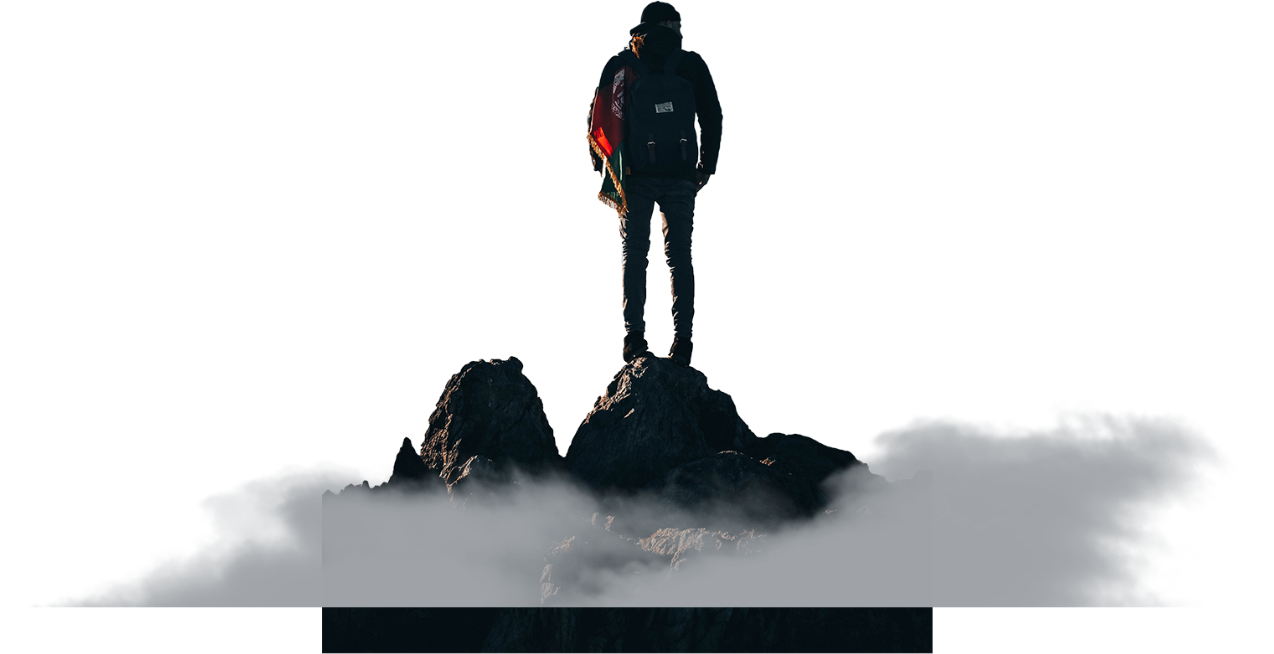
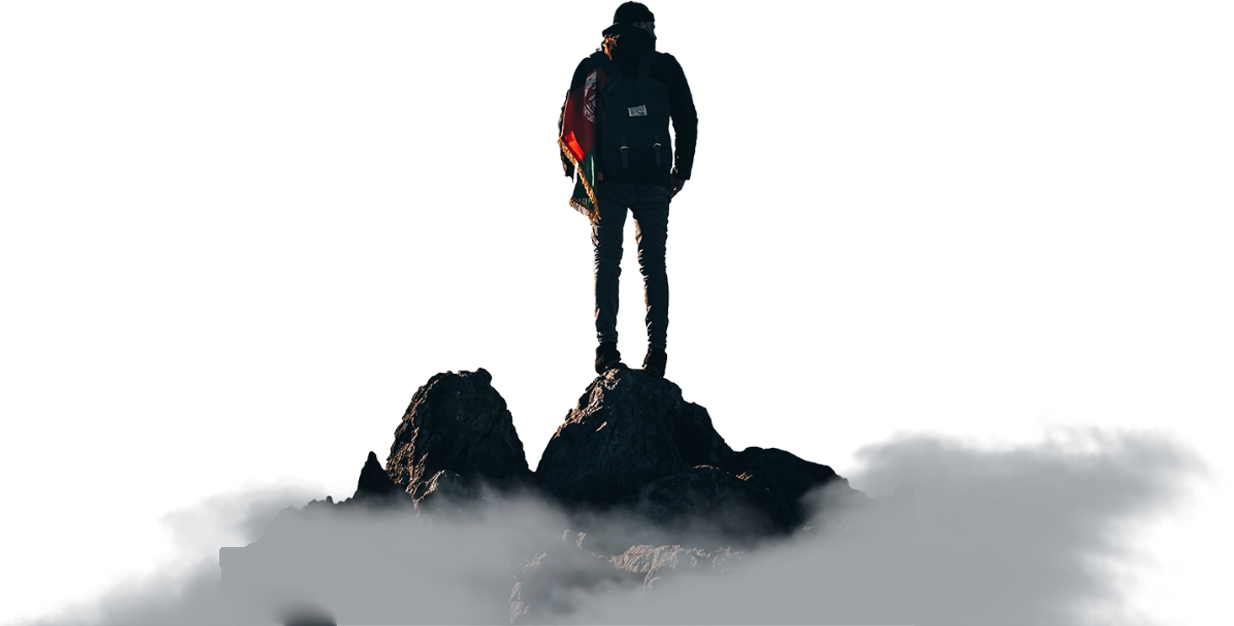
some parallax adds

Changed region(s): [[0.0, 0.0, 0.9854, 1.0]]

diff --git a/src/components/Parallax/Parallax.css b/src/components/Parallax/Parallax.css
@@ -1,48 +1,79 @@
-.Parallax{
+.Parallax {
     position: relative;
     width: 100%;
-    height: 95vh;
+    height: 100vh;
     overflow: hidden;
+    font-family: Andromeda;
 }
 
-.mountain{
+.Parallax::after{
+    content: '';
+    position: absolute;
+    bottom:0;
+    width: 100%;
+    height: 50px;
+    background: linear-gradient(to top, black, transparent);
+}
+
+.mountain {
     width: 100%;
     height: 100%;
     background-image: url("../../assets/images/parallax/mountains.jpg");
-    background-size: 100%;
+    background-size: cover;
     background-repeat: no-repeat;
     background-position: top;
     background-clip: border-box;
     background-attachment: fixed;
 }
-.alive{
+
+.alive {
     position: absolute;
+    bottom: 0;
     width: 100%;
-    top:50%;
+    height: 90%;
+    display: flex;
+    align-items: center;
+    justify-content: center;
     color: white;
-    font-family: Andromeda;
-    font-size: 250px;
+    font-size: 20em;
     letter-spacing: 5px;
 }
 
-.al{
-    margin-left: 25%;
+.alive span{
+    margin: 0 70px ;
 }
 
-.ve{
-    margin-left: 7%;
-}
+/*.al{*/
+/*    text-shadow: -14px 18px 18px black;*/
+/*}*/
 
-.man{
-    position: absolute;
-    height: 60%;
-    bottom: -100px;
-    left:20%;
-}
+/*.ve{*/
+/*    text-shadow: 14px 18px 18px black;*/
+/*}*/
 
-.clouds{
+
+.man {
     position: absolute;
     width: 100%;
-    top:0;
-    opacity: 0.5;
+    height: 60%;
+    bottom: 0;
+    background: url("../../assets/images/parallax/man.png");
+    background-repeat: no-repeat;
+    background-size: auto 100%;
+    background-position: center;
+}
+
+
+.cloudsParent {
+    position: absolute;
+    width: 100%;
+    height: 100%;
+    top: 0;
+    overflow: hidden;
+}
+
+.clouds {
+    width: 150%;
+    opacity: 1;
+    mix-blend-mode: soft-light;
 }

diff --git a/src/components/Parallax/Parallax.js b/src/components/Parallax/Parallax.js
@@ -8,15 +8,11 @@ class Parallax extends Component{
     state = {
         movement: {
             alive: {
-                speed: -0.5,
+                speed: 0.8,
                 transform: "translateY(0)"
             },
-            // man: {
-            //     speed: 0.2,
-            //     transform: "translateY(0)"
-            // },
             clouds: {
-                speed: -0.1,
+                speed: -0.8,
                 transform: "translateY(0)"
             },
             man: {
@@ -24,7 +20,7 @@ class Parallax extends Component{
                 transform: "translateY(0)"
             },
             mountains: {
-                speed: 0.08,
+                speed: 0.03,
                 transform: "translateY(0)"
             },
         }
@@ -59,8 +55,10 @@ class Parallax extends Component{
                     <span className={c.al}>AL</span>
                     <span className={c.ve}>VE</span>
                 </div>
-                <img style={{transform:this.state.movement.man.transform}} className={c.man} src={man} alt={"man"} />
-                <img style={{transform:this.state.movement.clouds.transform}} className={c.clouds} src={clouds} alt={"clouds"}/>
+                <div style={{transform:this.state.movement.man.transform}} className={c.man}></div>
+                <div className={c.cloudsParent}>
+                    <img style={{transform:this.state.movement.clouds.transform}} src={clouds} className={c.clouds} alt={"clouds"}/>
+                </div>
             </div>
         );
     }

diff --git a/src/index.css b/src/index.css
@@ -14,13 +14,13 @@ code {
 
 @font-face {
   font-family: "Anurati";
-  src: url("./assets/fonts/anurati.otf");
+  src: url("assets/fonts/anurati.otf");
 }
 @font-face {
   font-family: "Andromeda";
-  src: url("./assets/fonts/andromeda.ttf");
+  src: url("assets/fonts/andromeda.ttf");
 }
 @font-face {
   font-family: "Ailerons";
-  src: url("./assets/fonts/ailerons.otf");
+  src: url("assets/fonts/ailerons.otf");
 }

diff --git a/src/containers/PageContainer/PageContainer.js b/src/containers/PageContainer/PageContainer.js
@@ -12,7 +12,7 @@ class PageContainer extends Component{
                 </header>
                 <main className={classes.main}>
                     <Parallax/>
-                    <section style={{width:"100%",height:"100vh"}}></section>
+                    <section style={{width:"100%",height:"100vh", background: "black"}}></section>
                 </main>
             </div>
         );

diff --git a/src/components/UI/NavigationBar/NavigationBar.css b/src/components/UI/NavigationBar/NavigationBar.css
@@ -4,4 +4,5 @@
     padding: 5px;
     font-size: 40px;
     font-family: Ailerons;
+    background: linear-gradient(to top, transparent,black);
 }

diff --git a/src/containers/PageContainer/PageContainer.css b/src/containers/PageContainer/PageContainer.css
@@ -9,7 +9,6 @@
     left:0;
     width: 100%;
     height: auto;
-    background: black;
 }
 
 .main{
